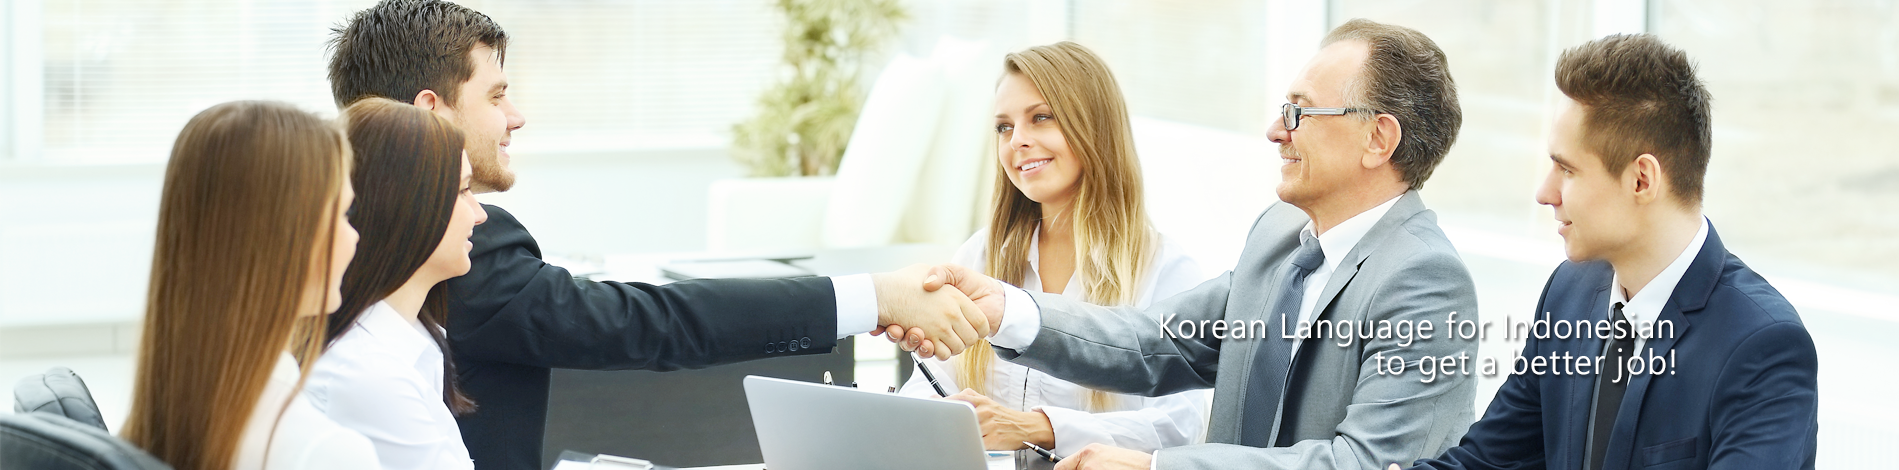
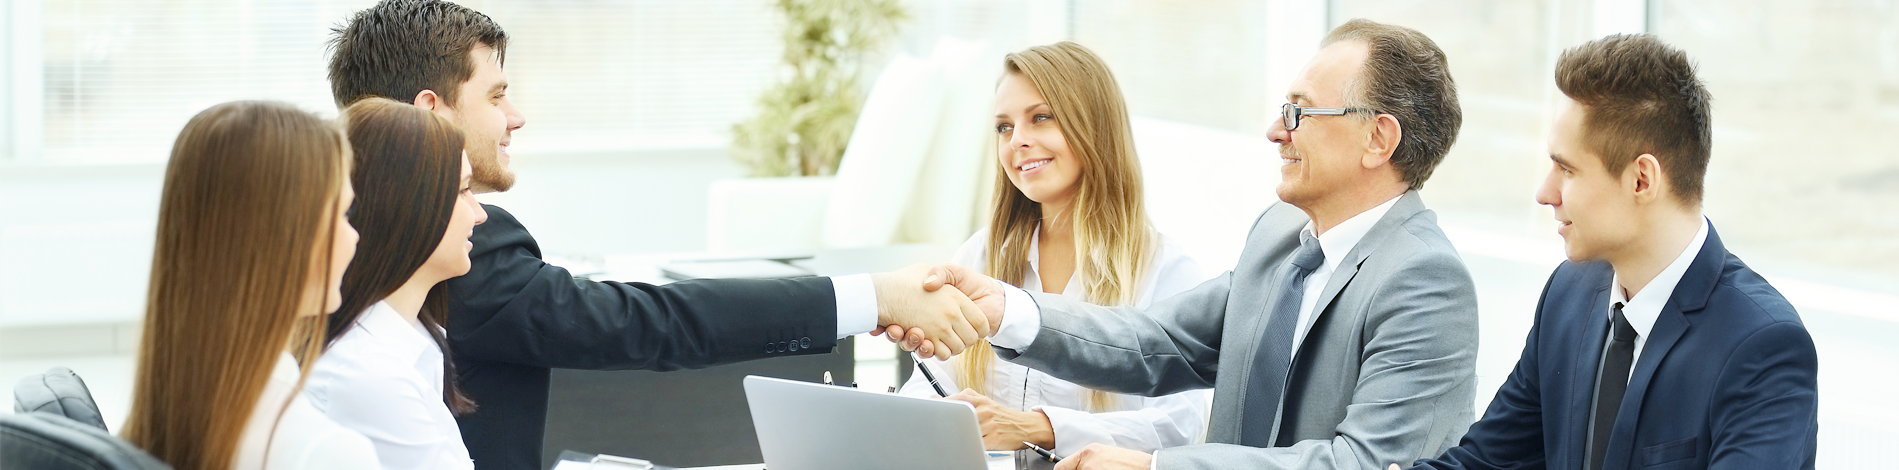
디자인 수정 0922

Changed region(s): [[0.5903, 0.6553, 0.901, 0.834]]

diff --git a/common/static/css/layout.css b/common/static/css/layout.css
@@ -78,9 +78,12 @@ header.global .nav-global li a.btn.type2:hover {border:solid 1px #939393;color:#
 
 .content-wrapper{padding:0px;}
 
-.home>header{background-color:#9c9c9c;background-image:-webkit-linear-gradient(#9c9c9c,#995353);background-image:linear-gradient(#9c9c9c,#995353);background-size:cover;background-image:none;box-shadow:0 1px 0 0 rgba(255,255,255,0.93),inset 0 -1px 5px 0 rgba(0,0,0,0.1);overflow:hidden;padding:0;width:100%}
+.home>header{background-color:#9c9c9c;background-image:-webkit-linear-gradient(#9c9c9c,#995353);background-image:linear-gradient(#9c9c9c,#995353);/*background-size:contain;*/background-image:none;box-shadow:0 1px 0 0 rgba(255,255,255,0.93),inset 0 -1px 5px 0 rgba(0,0,0,0.1);overflow:hidden;padding:0;width:auto; height: 461px;}
+/*.home>header{background-color:#9c9c9c;background-image:-webkit-linear-gradient(#9c9c9c,#995353);background-image:linear-gradient(#9c9c9c,#995353);background-size:cover;background-image:none;box-shadow:0 1px 0 0 rgba(255,255,255,0.93),inset 0 -1px 5px 0 rgba(0,0,0,0.1);overflow:hidden;padding:0;width:100%}*/
 
-.home>header{margin:0;height:auto;box-shadow:none;border-bottom:none;height:469px;background:#e6e6e6 url('../../../lms/static/images/main_img1.png') no-repeat top center;}
+.home>header .imgDiv{/*margin:0;height:auto;*/box-shadow:none;border-bottom:none;height:100%;background:#e6e6e6 url('../../../static/images/main_img1.png') no-repeat scroll center center;text-align: right;}
+.home>header .imgDiv .mainText{box-shadow:none;margin: 50px 100px 0 0;width: 420px;height: 110px;}
+/*.home>header{margin:0;height:auto;box-shadow:none;border-bottom:none;height:469px;background:#e6e6e6 url('../../../static/images/main_img1.png') no-repeat top center;}*/
 .home>header .outer-wrapper{margin:0 auto;padding:0;max-width:1170px;}
 .home>header .title{margin:0;padding:60px 10px 30px 0;width:auto;max-width:526px;background:none;box-shadow:none;border:none;}
 .home>header .title img{width:100%;}
@@ -254,7 +257,6 @@ header.global .nav-global li.deactive{display:none;}
 	/*.container.about > nav a {width:33%;}*/
 	.container.about > nav a {width:20%;}
 
-
 }
 
 @media only screen and (max-width:750px) {
@@ -267,8 +269,8 @@ header.global .nav-global li.deactive{display:none;}
 	header.global.slim h2.course-header{float:none;width:100%;text-align:center;margin:0 auto;padding-bottom:10px;}
 	header.global .nav-global{margin:0;padding:10px;}
 	header.global .nav-global li[class^="gnb"]{width:22%;}
-	header.global .nav-global li:nth-child(1){right:100px;top:85px;}
-	header.global .nav-global li:nth-child(2){right:10px;top:85px;}
+	header.global .nav-global li:nth-child(1){right:100px;top:12px;}
+	header.global .nav-global li:nth-child(2){right:10px;top:12px;}
 	header.global .nav-global li .deactive{display:none !important;}
 	header.global .user{margin-top:-55px;}
 	header.global.slim .user {margin-top:-35px;}
@@ -405,4 +407,86 @@ li.gnb1.loginLayout {
 
 li.gnb1 {
 	margin-left: 50px !important;
+}
+
+@media screen and (max-width: 1200px) {
+	.home .backHeader {
+		height: 380px;
+	}
+
+	.home .backHeader .imgDiv {
+		height: 100%;
+		background-size: 1200px 380px !important;
+	}
+
+	.home .backHeader .imgDiv .mainText {
+		margin-top: 75px;
+		margin-right: 60px;
+		width: 330px;
+		height: 100px;
+	}
+}
+
+@media screen and (max-width: 1000px) {
+	.home .backHeader {
+		height: 330px;
+	}
+
+	.home .backHeader .imgDiv {
+		height: 100%;
+		background-size: 1000px 330px !important;
+	}
+
+	.home .backHeader .imgDiv .mainText {
+		margin-top: 100px;
+		margin-right: 50px;
+		width: 300px;
+		height: 90px;
+	}
+}
+
+@media screen and (max-width: 800px) {
+	.home .backHeader .imgDiv .mainText {
+		margin-top: 90px;
+		width: 240px;
+		height: 80px;
+	}
+
+	.home .backHeader {
+		height: 280px;
+	}
+
+	.home .backHeader .imgDiv {
+		height: 100%;
+		background-size: 800px 280px !important;
+	}
+}
+
+@media screen and (max-width: 500px) {
+    .home .backHeader {
+        height: 230px;
+    }
+
+    .home .backHeader .imgDiv {
+        height: 100%;
+        background-size: 500px 230px !important;
+    }
+
+    .home .backHeader .imgDiv .mainText {
+        margin-right: 20px;
+    }
+}
+
+@media screen and (max-width: 300px) {
+	.home .backHeader .imgDiv .mainText {
+		margin: 110px 20px 0 20px;
+		width: 150px;
+		height: 70px;
+	}
+}
+
+@media screen and (max-width: 200px) {
+	.home .backHeader .imgDiv .mainText {
+		display: none;
+	}
 }

diff --git a/lms/templates/main.html b/lms/templates/main.html
@@ -142,19 +142,12 @@ from pipeline_mako import render_require_js_path_overrides
     % endif
 
     <div class="content-wrapper" id="content">
-        <script src="/static/js/mainImg.js"></script>
+        <script src="/static/js/mainImg.js" type="text/javascript"></script>
           <section class="home" style="background: #fff !important;">
               % if request.path == '/':
-                <header id="mainImg">
-                  <div style="margin: 0 auto; max-width: 1200px;">
-                      <!---div style="padding: 150px 10px 30px;">
-                          <img class="mainText" id="mainText" src="./images/main_text1.png" alt="">
-                      </div---->
-                  </div>
-
-                    <div style="border: 1px solid red; width:100%; height: 100%;">
-                        TEXT HERE
-
+                <header class="backHeader">
+                    <div id="mainImg" class="imgDiv">
+                        <img class="mainText" id="mainText" src="/static/images/main_tex1.png" alt="Cyber Education Come to Cyber Edu Inkor Make Your Dream Come True!"/>
                     </div>
                  </header>
              % endif
@@ -164,8 +157,8 @@ from pipeline_mako import render_require_js_path_overrides
           </section>
     </div>
 
-
-      % if request.path == request.path == '/':
+s
+      % if request.path == '/':
       <section class="courses-container">
           <div class="Community">
               <section class="Community-list">

diff --git a/lms/static/js/mainImg.js b/lms/static/js/mainImg.js
@@ -43,6 +43,7 @@ $(document).ready(function(){
               function mainImgChg(){
                   //return;          //#e6e6e6 url("./images/main_img1.png") no-repeat scroll center top  
                   // console.log($("#mainImg").size()); 
+
                   var imgUrl = "";
                   var textUrl = "";
                   if(idx == 0) {
@@ -64,8 +65,9 @@ $(document).ready(function(){
                   }, 4000, "easeInExpo", function(){
                       console.log("imgUrl = " + imgUrl);
                       console.log("imgText = " + textUrl);
-                      $(this).css("background", "url("+imgUrl+") no-repeat scroll center top");
+                      $("#mainImg").css("background-image", "url('"+imgUrl+"')");
                       $("#mainText").attr("src", textUrl);
+
                       console.log("check >>>>>>>>>>>>>>>>>> " + $("#mainText").attr("src"));
                       console.log("css change done.");
                       $(this).animate({
@@ -84,7 +86,7 @@ $(document).ready(function(){
                   var d = new Date();
                   if((d.getDay() == 2 || d.getDay() == 5) && d.getHours() == 8 && ( d.getMinutes() >= 0 && d.getMinutes() <= 30)){
 
-                      setTimeout(showNotice, 1000000000);
+                      setTimeout(showNotice, 10000);
 
                       if($("#noticeLayer").length)
                           return;
